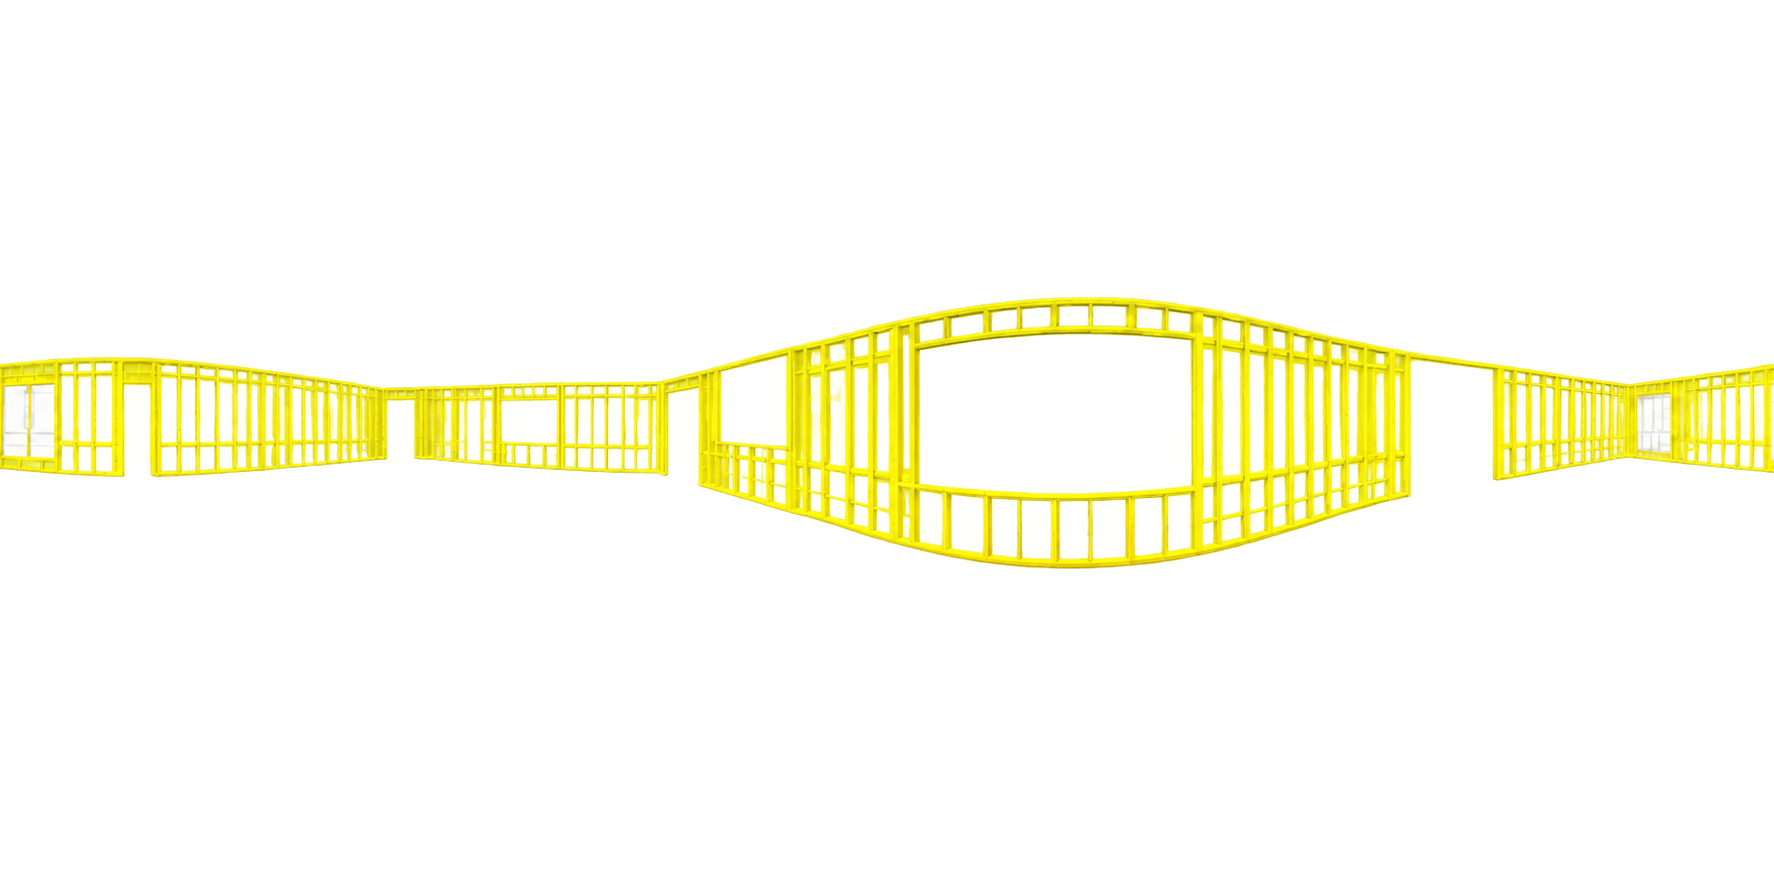
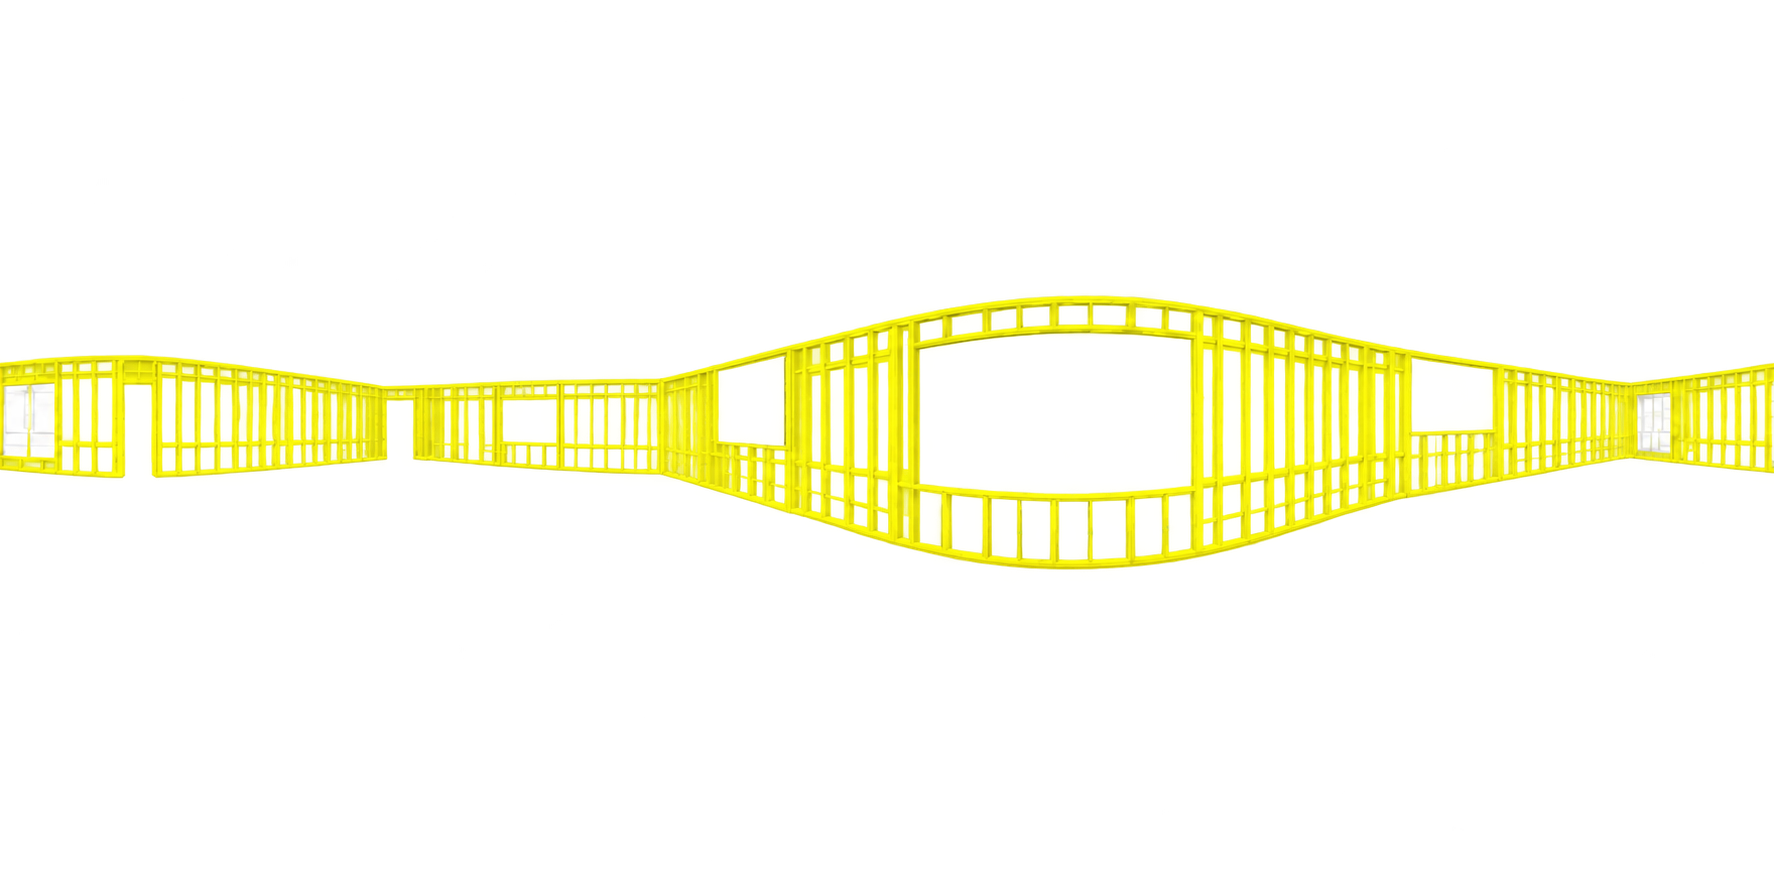
Round 2 studs patch: false-doorway gap, screen bleed, and under-screen gap all fixed
Full-image scan (not just the 3 circled spots) came back clean after
this patch: verified via alpha-compositing over pano.jpg across every
wall band, both screens, and the whiteboard, with no remaining bleed
or coverage gaps found. Bumps ASSET_VERSION to 3 so the new bytes
actually reach devices instead of being served from a stale CDN/
browser cache under the old unversioned URL.

Changed region(s): [[0.0, 0.3348, 1.0, 0.6697]]

diff --git a/index.html b/index.html
@@ -568,7 +568,7 @@ scene.add(wallGroup);
 // appended to every texture URL — bump it any time pano.jpg or any
 // pano-<category>.png file changes, so the new bytes are guaranteed to
 // load under a fresh URL instead of an old cached one.
-const ASSET_VERSION = "2";
+const ASSET_VERSION = "3";
 function versioned(file) {
   return file + "?v=" + ASSET_VERSION;
 }
